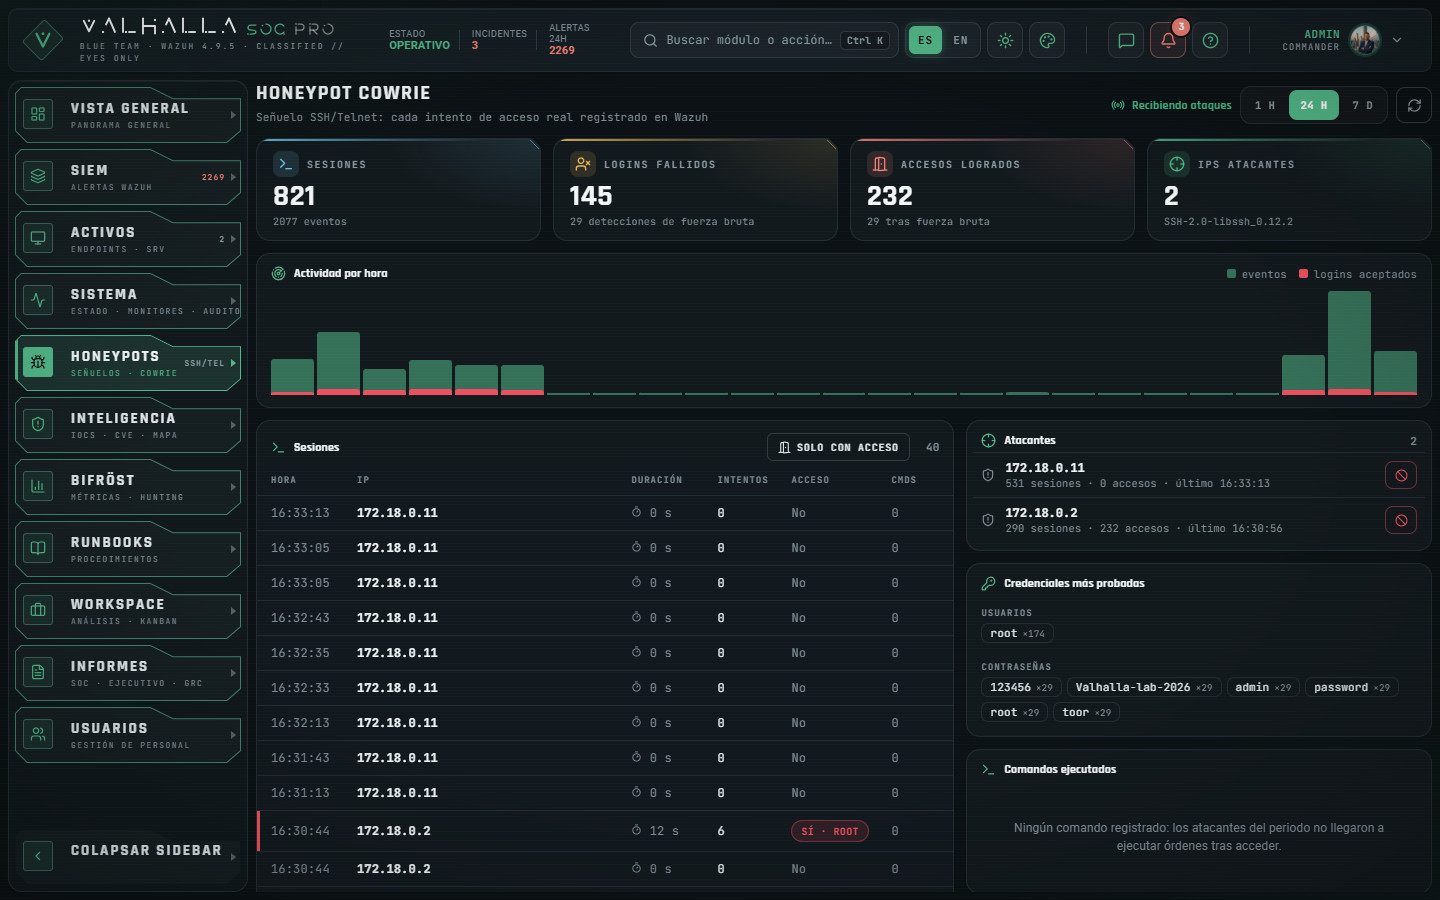
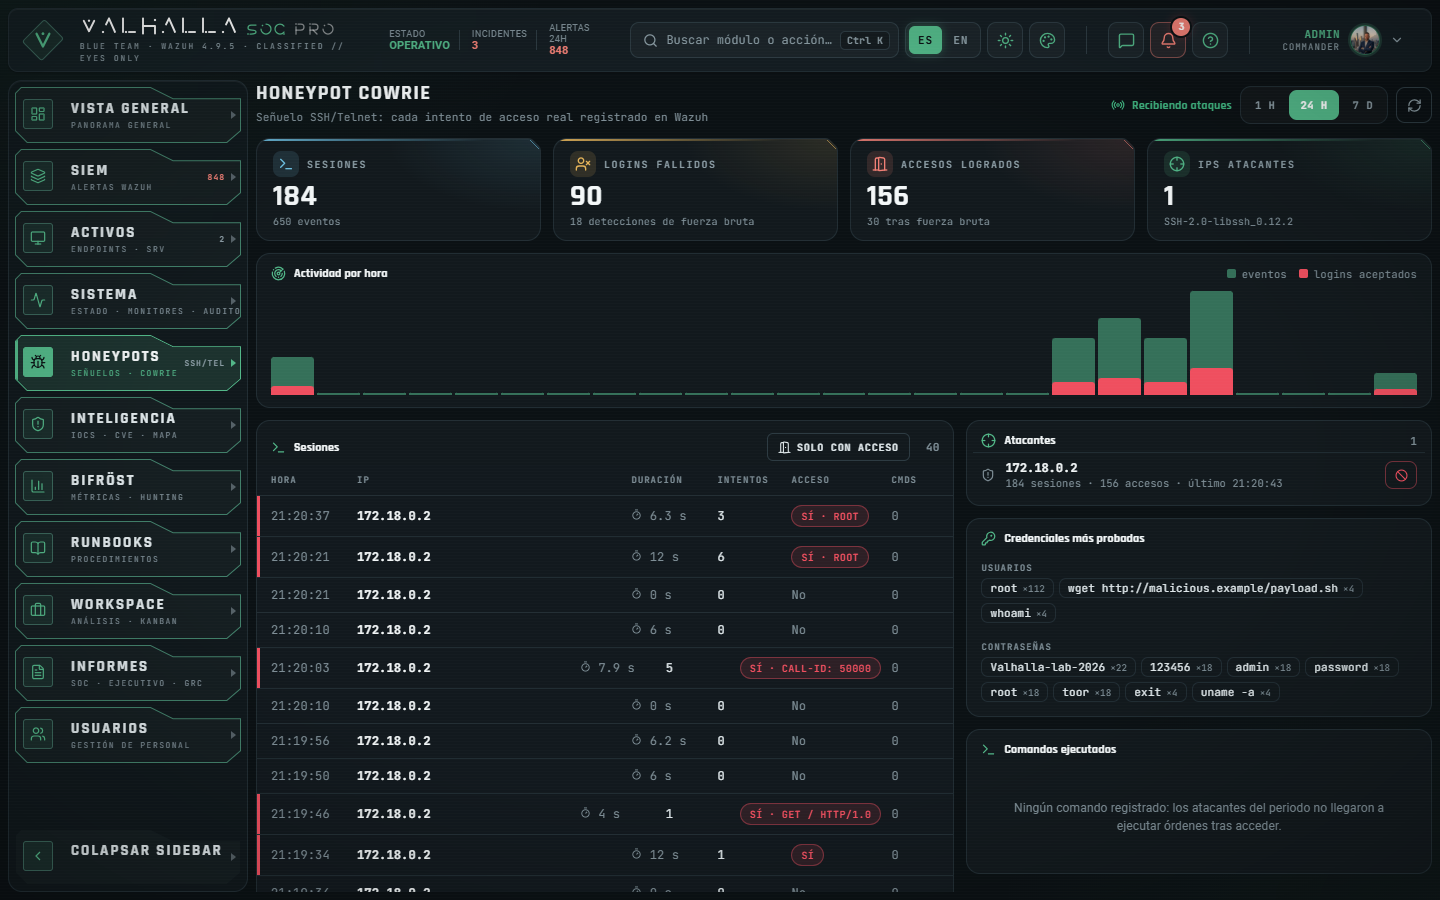
chore(siem): script de limpieza de las sondas del backend y capturas sin ruido
scripts/purge_backend_probes.py borra del indexador solo los eventos
cowrie.session.connect/closed cuya IP de origen es la del backend (las sondas del
widget de salud corregido en 1a2b3fd), con modo prueba por defecto, salvaguarda si esa
IP intento algun login y copia de seguridad previa. Ejecutado el 26/09/2026:
2438 eventos borrados, 0 fallos.

Capturas de Vista general, SIEM, Honeypots, Workspace y movil rehechas sin ese ruido.

diff --git a/scripts/purge_backend_probes.py b/scripts/purge_backend_probes.py
@@ -1,0 +1,74 @@
+"""Borra del SIEM las sesiones falsas que generaba el widget de salud contra Cowrie.
+
+Hasta el 26/09/2026 el backend comprobaba Cowrie abriendo una conexión TCP a su puerto
+SSH: el honeypot registraba cada comprobación como una sesión de ataque (conexión y
+cierre en 0-7 ms, sin login). Este script elimina solo esos eventos del indexador.
+
+Uso (dentro del contenedor backend):
+    python /opt/valhalla-scripts/purge_backend_probes.py            # solo muestra qué borraría
+    python /opt/valhalla-scripts/purge_backend_probes.py --apply    # copia de seguridad + borrado
+
+Se borra únicamente lo que cumple TODO esto: IP de origen = IP del backend y evento
+cowrie.session.connect o cowrie.session.closed. La copia queda en /app/backups/.
+"""
+from __future__ import annotations
+
+import json
+import os
+import socket
+import sys
+from datetime import datetime, timezone
+
+import httpx
+
+URL = os.environ["OPENSEARCH_URL"].rstrip("/")
+AUTH = (os.environ["OPENSEARCH_USER"], os.environ["OPENSEARCH_PASS"])
+INDEX = "wazuh-alerts-*"
+
+
+def backend_ips() -> set[str]:
+    return {ai[4][0] for ai in socket.getaddrinfo(socket.gethostname(), None)} - {"127.0.0.1"}
+
+
+def main() -> int:
+    apply = "--apply" in sys.argv
+    ips = sorted(backend_ips())
+    query = {"bool": {"filter": [
+        {"terms": {"data.src_ip": ips}},
+        {"terms": {"data.eventid": ["cowrie.session.connect", "cowrie.session.closed"]}},
+    ]}}
+    with httpx.Client(auth=AUTH, verify=False, timeout=120) as c:
+        # Salvaguarda: si alguna de esas IPs llegó a intentar un login, no es una sonda; no se toca nada
+        logins = c.post(f"{URL}/{INDEX}/_count", json={"query": {"bool": {"filter": [
+            {"terms": {"data.src_ip": ips}}, {"prefix": {"data.eventid": "cowrie.login"}}]}}}).json()["count"]
+        if logins:
+            print(f"ABORTADO: hay {logins} intentos de login desde {ips}; no parecen sondas.")
+            return 1
+
+        hits = c.post(f"{URL}/{INDEX}/_search", json={"size": 10000, "query": query}).json()["hits"]
+        total = hits["total"]["value"]
+        print(f"IPs del backend: {ips}")
+        print(f"Eventos a borrar: {total}")
+        if not total:
+            return 0
+        if total > 10000:
+            print("Hay más de 10.000: ejecuta el script otra vez tras el borrado.")
+        if not apply:
+            print("Modo prueba: no se ha borrado nada. Añade --apply para borrar.")
+            return 0
+
+        os.makedirs("/app/backups", exist_ok=True)
+        path = f"/app/backups/sondas-backend-{datetime.now(timezone.utc):%Y%m%d-%H%M%S}.json"
+        with open(path, "w", encoding="utf-8") as f:
+            json.dump({"motivo": "sondas TCP del widget de salud contra Cowrie", "query": query,
+                       "docs": [{"_index": h["_index"], "_id": h["_id"], "_source": h["_source"]} for h in hits["hits"]]}, f)
+        print(f"Copia de seguridad: {path}")
+
+        r = c.post(f"{URL}/{INDEX}/_delete_by_query", params={"refresh": "true", "conflicts": "proceed"},
+                   json={"query": query}).json()
+        print(f"Borrados: {r.get('deleted')} · fallos: {len(r.get('failures', []))}")
+    return 0
+
+
+if __name__ == "__main__":
+    sys.exit(main())
